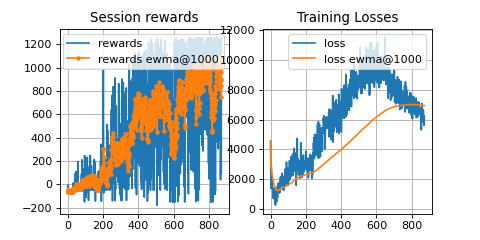
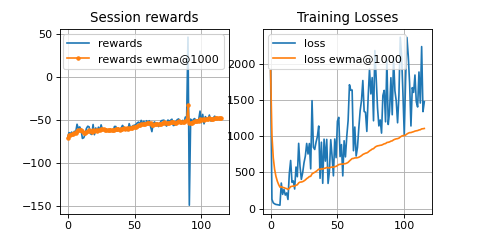
fix rewards

Changed region(s): [[0.0312, 0.0875, 0.9062, 0.9625], [0.0312, 0.1167, 0.125, 0.2042], [0.625, 0.9042, 0.6562, 0.9625]]

diff --git a/PolycraftEnv.py b/PolycraftEnv.py
@@ -2,7 +2,7 @@
 #
 # Defines OpenAI Gym environments for Polycraft.
 #
-# Washington State University
+# Georgia Tech
 
 import warnings
 warnings.simplefilter(action='ignore', category=FutureWarning)
@@ -213,11 +213,11 @@ class PolycraftHGEnv:
                     self.get_macguffin = True
                     reward += 100.0
                 else:
-                    reward += 5.0
+                    reward += 0.1
             else:
                 if self.get_macguffin:
-                    reward -= 100.0
-                self.get_macguffin = False
+                    reward -= 150.0
+                    self.get_macguffin = False
             if self.goal_achieved(state_dict):
                 reward += 1000.0
         

diff --git a/config.py b/config.py
@@ -29,9 +29,9 @@ class Config:
 
         # path
         #prefix = ''
-        prefix = 'BEST'
-        self.model_path = 'saved_model_{}.pth'.format(prefix)
-        self.frame_path = 'saved_frames_{}.pkl'.format(prefix)
+        prefix = '_BEST'
+        self.model_path = 'saved_model{}.pth'.format(prefix)
+        self.frame_path = 'saved_frames{}.pkl'.format(prefix)
 
         self.is_recover = True       # whether to recover old buffer
 
